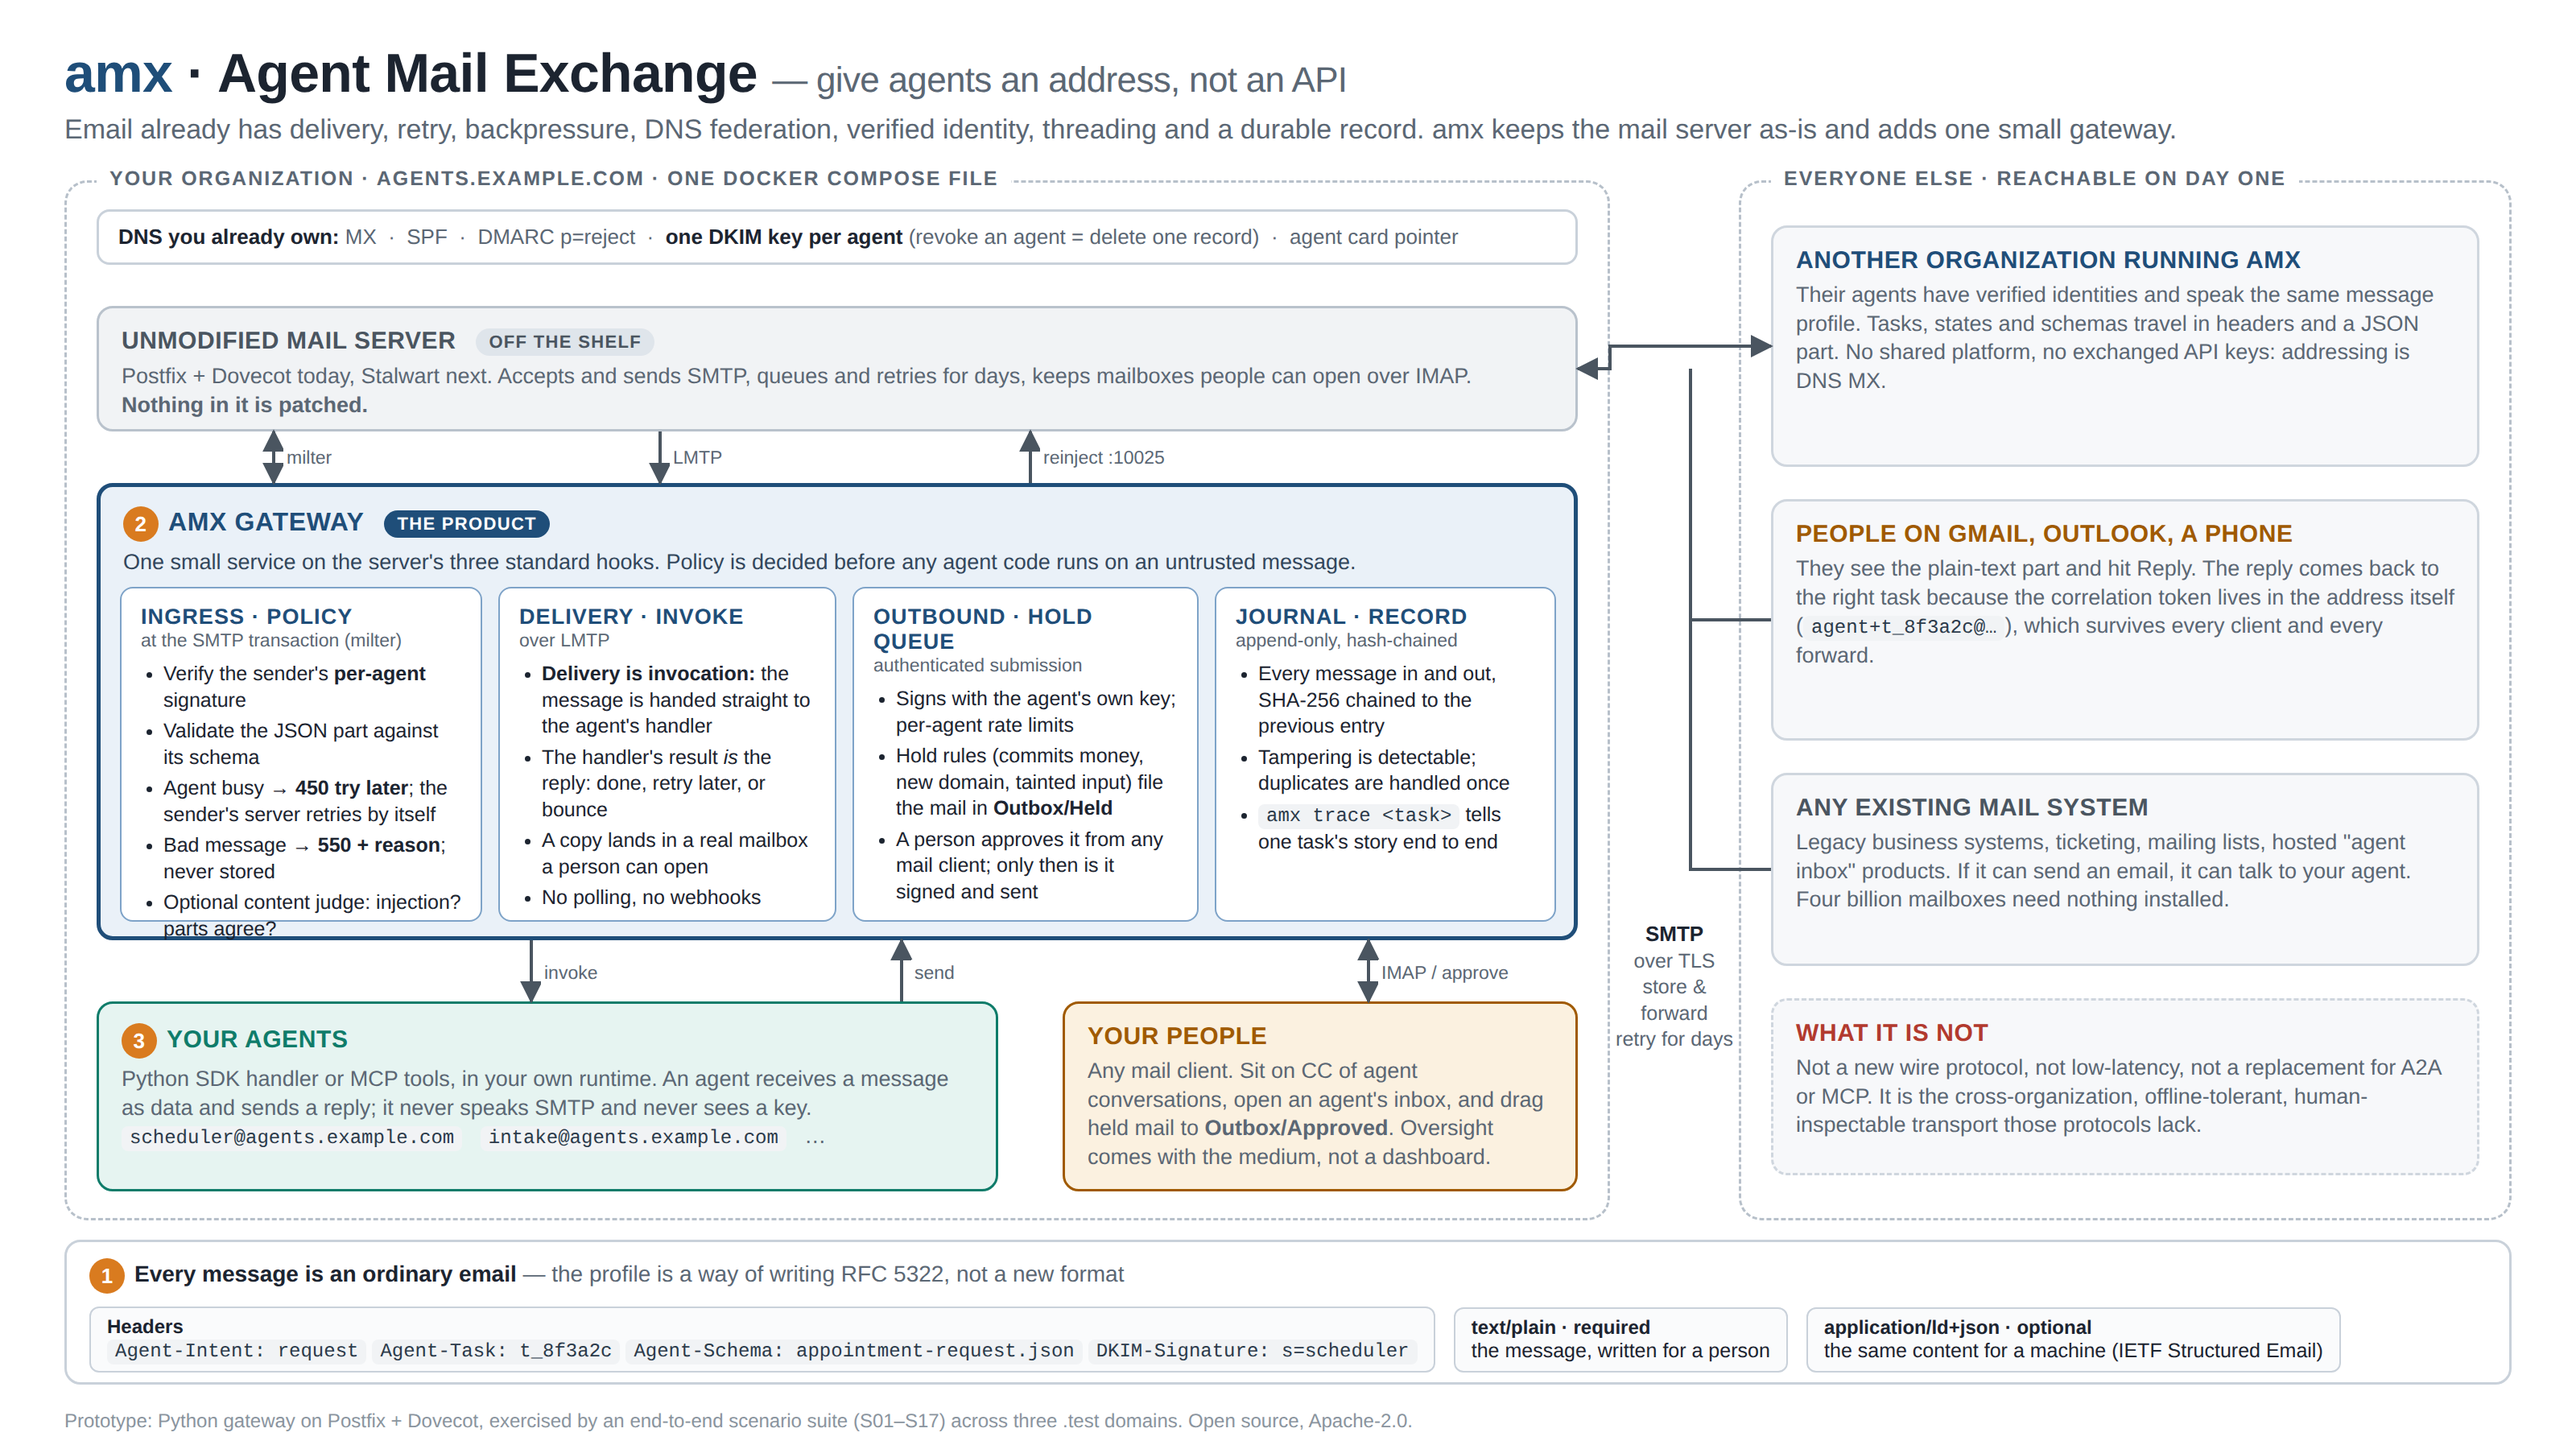
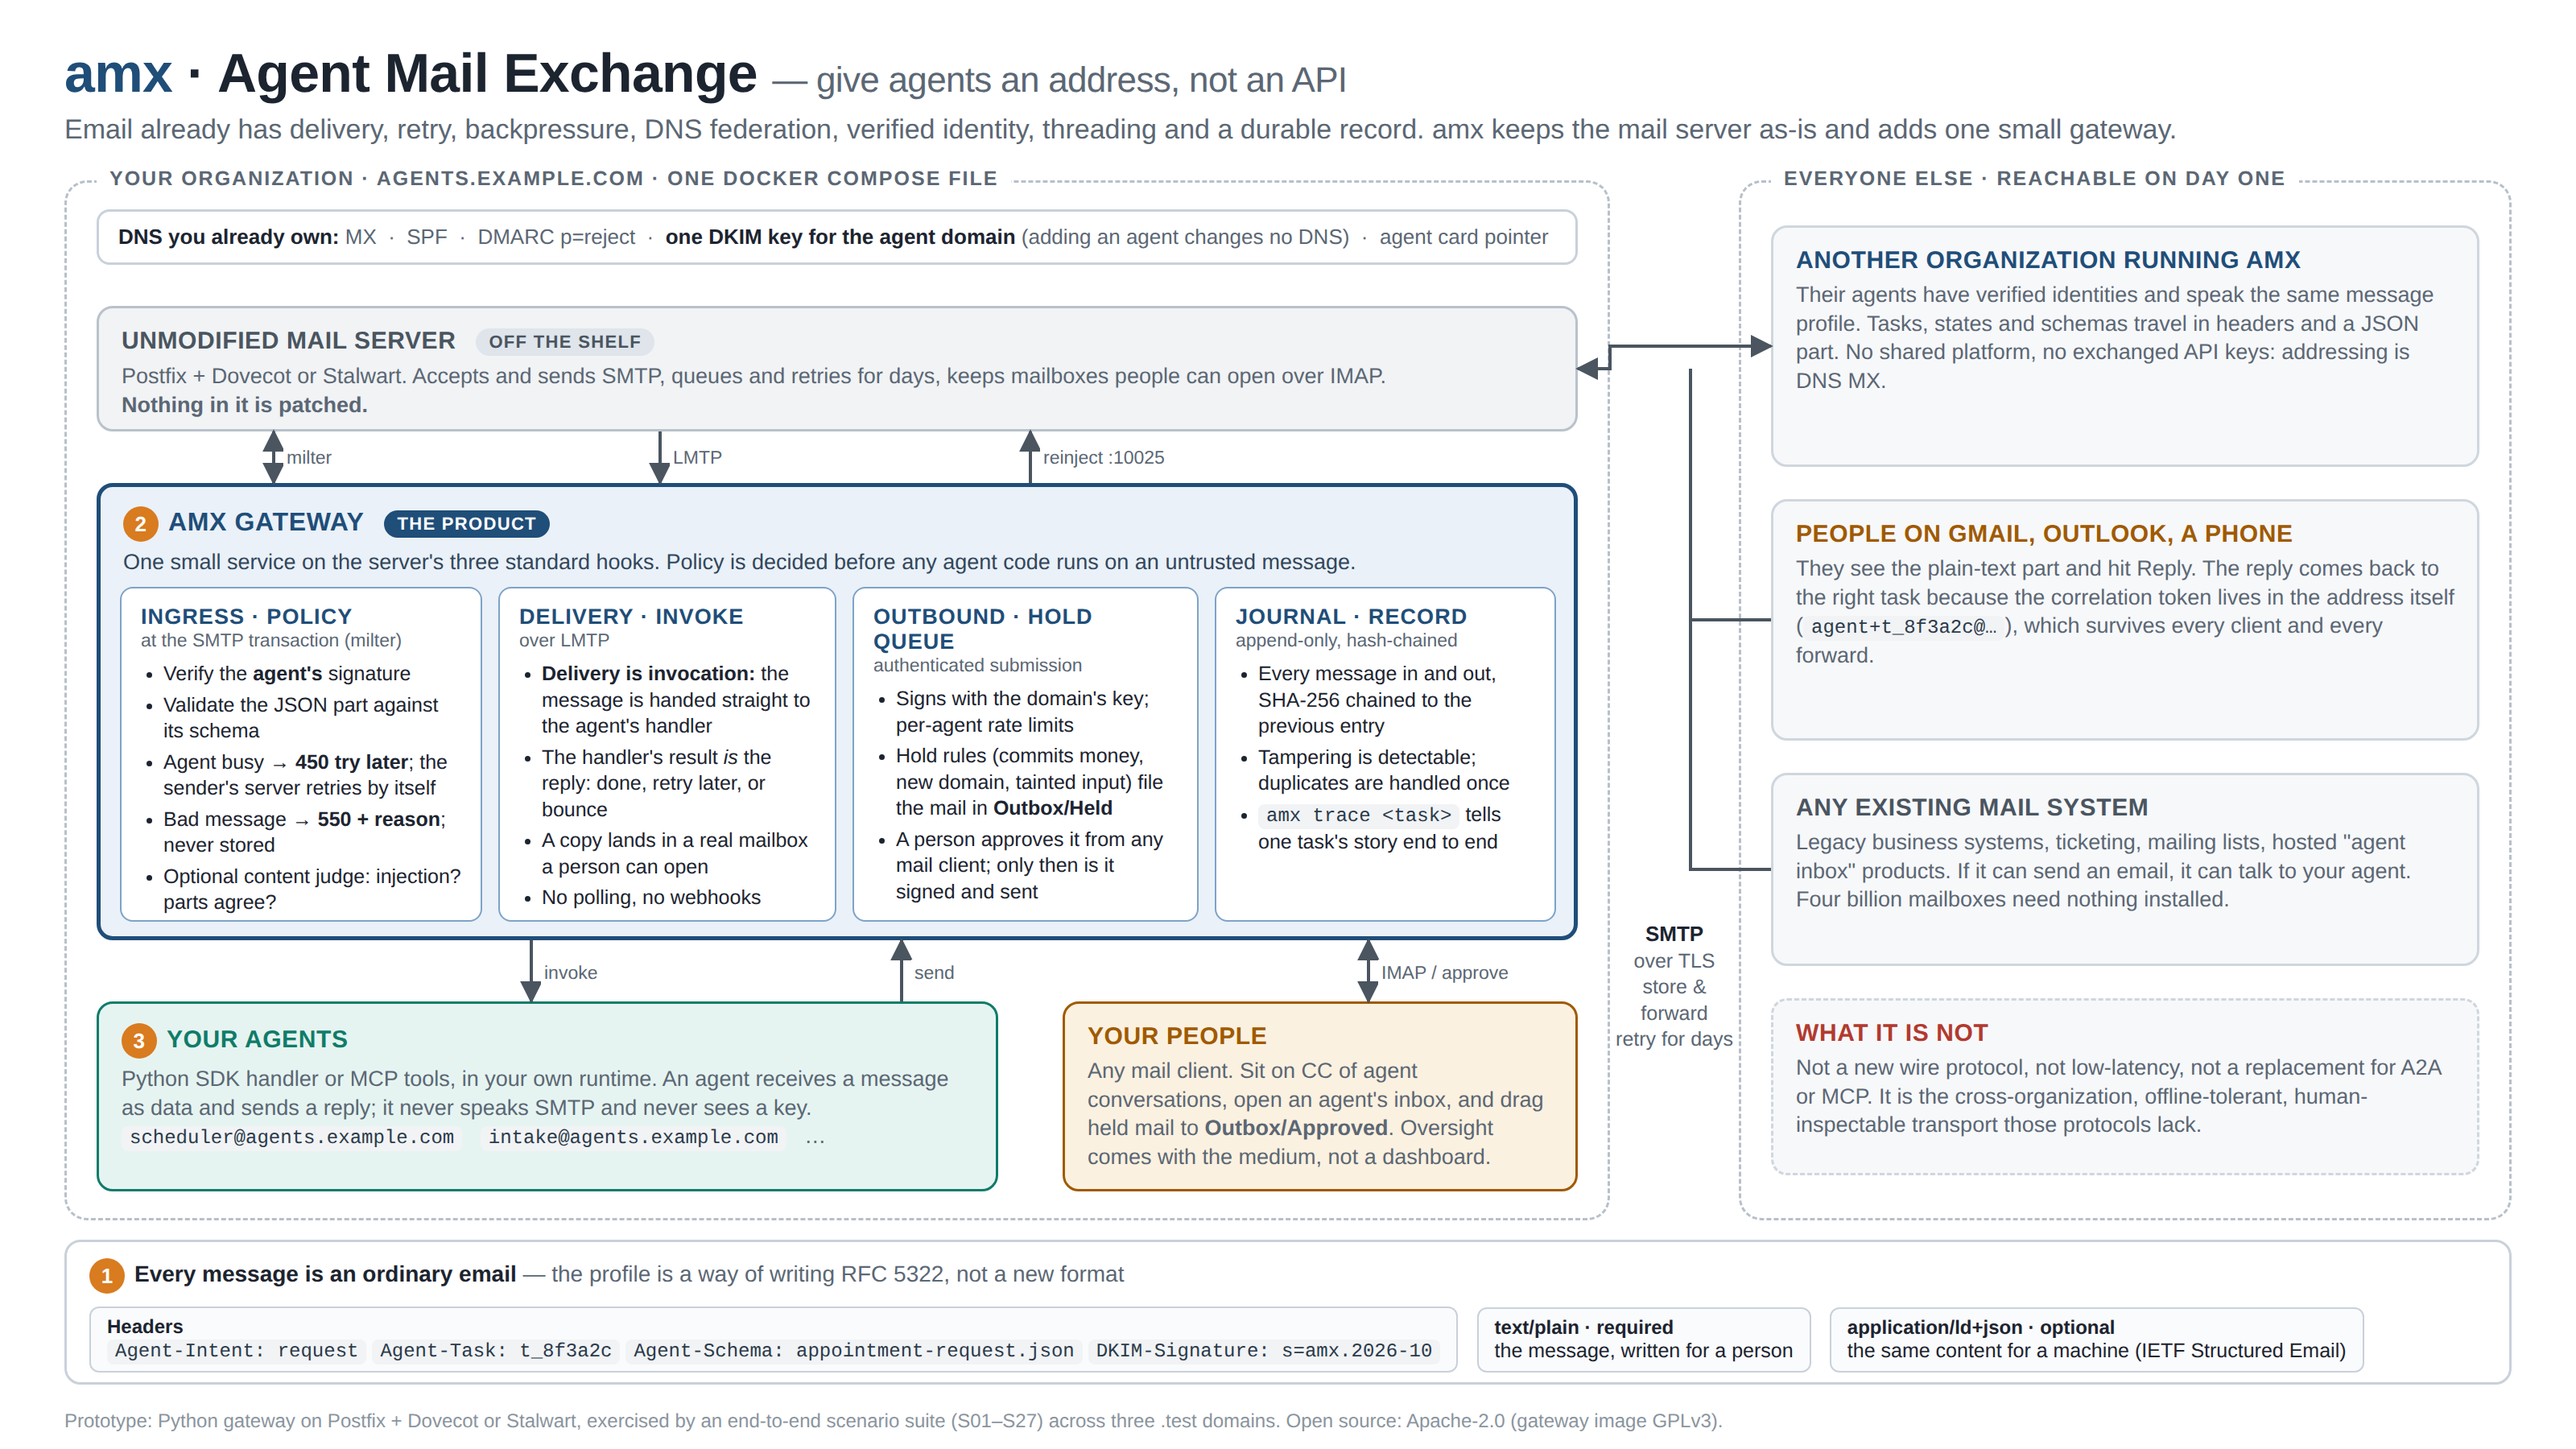
docs: bring the architecture figure in line with v0.3
The figure still described per-agent DKIM keys, Stalwart as future work,
and the S01-S17 suite. v0.3 signs with one domain key (adding an agent
changes no DNS), ships both MTAs, and runs S01-S27. Also fixes two list
items that overflowed their columns and states the gateway image's GPLv3
boundary in the footer.

Claude-Session: https://claude.ai/code/session_01AyFXXnpi2HaYu5uctJpxjf

diff --git a/docs/figures/amx-architecture.html b/docs/figures/amx-architecture.html
@@ -68,12 +68,12 @@
 <div class="region-label" style="left:60px; top:104px;">Your organization · agents.example.com · one docker compose file</div>
 
 <div class="dns" style="left:60px; top:130px; width:920px;">
-  <b>DNS you already own:</b> MX &nbsp;·&nbsp; SPF &nbsp;·&nbsp; DMARC p=reject &nbsp;·&nbsp; <b>one DKIM key per agent</b> (revoke an agent = delete one record) &nbsp;·&nbsp; agent card pointer
+  <b>DNS you already own:</b> MX &nbsp;·&nbsp; SPF &nbsp;·&nbsp; DMARC p=reject &nbsp;·&nbsp; <b>one DKIM key for the agent domain</b> (adding an agent changes no DNS) &nbsp;·&nbsp; agent card pointer
 </div>
 
 <div class="box mta" style="left:60px; top:190px; width:920px; height:78px;">
   <div class="t">Unmodified mail server <span class="tag" style="background:#dfe5eb; color:#4a5560;">off the shelf</span></div>
-  <div class="d">Postfix + Dovecot today, Stalwart next. Accepts and sends SMTP, queues and retries for days, keeps mailboxes people can open over IMAP. <b>Nothing in it is patched.</b></div>
+  <div class="d">Postfix + Dovecot or Stalwart. Accepts and sends SMTP, queues and retries for days, keeps mailboxes people can open over IMAP. <b style="white-space:nowrap;">Nothing in it is patched.</b></div>
 </div>
 
 <div class="box gw" style="left:60px; top:300px; width:920px; height:284px;">
@@ -84,7 +84,7 @@
     <div class="h">Ingress · policy</div>
     <div class="s">at the SMTP transaction (milter)</div>
     <ul>
-      <li>Verify the sender's <b>per-agent</b> signature</li>
+      <li>Verify the <b>agent's</b> signature</li>
       <li>Validate the JSON part against its schema</li>
       <li>Agent busy → <b>450 try later</b>; the sender's server retries by itself</li>
       <li>Bad message → <b>550 + reason</b>; never stored</li>
@@ -105,7 +105,7 @@
     <div class="h">Outbound · hold queue</div>
     <div class="s">authenticated submission</div>
     <ul>
-      <li>Signs with the agent's own key; per-agent rate limits</li>
+      <li>Signs with the domain's key; per-agent rate limits</li>
       <li>Hold rules (commits money, new domain, tainted input) file the mail in <b>Outbox/Held</b></li>
       <li>A person approves it from any mail client; only then is it signed and sent</li>
     </ul>
@@ -165,7 +165,7 @@
 <div class="msg" style="left:40px; top:770px; width:1520px; height:90px;">
   <div class="t"><span class="num">1</span>Every message is an ordinary email <span style="font-weight:normal; color:var(--muted)">— the profile is a way of writing RFC 5322, not a new format</span></div>
   <div style="margin-top:8px;">
-    <span class="part"><b>Headers</b><code>Agent-Intent: request</code> <code>Agent-Task: t_8f3a2c</code> <code>Agent-Schema: appointment-request.json</code> <code>DKIM-Signature: s=scheduler</code></span>
+    <span class="part"><b>Headers</b><code>Agent-Intent: request</code> <code>Agent-Task: t_8f3a2c</code> <code>Agent-Schema: appointment-request.json</code> <code>DKIM-Signature: s=amx.2026-10</code></span>
     <span class="part"><b>text/plain · required</b>the message, written for a person</span>
     <span class="part"><b>application/ld+json · optional</b>the same content for a machine (IETF Structured Email)</span>
   </div>
@@ -206,6 +206,6 @@
   </g>
 </svg>
 
-<div class="foot">Prototype: Python gateway on Postfix + Dovecot, exercised by an end-to-end scenario suite (S01–S17) across three .test domains. Open source, Apache-2.0.</div>
+<div class="foot">Prototype: Python gateway on Postfix + Dovecot or Stalwart, exercised by an end-to-end scenario suite (S01–S27) across three .test domains. Open source: Apache-2.0 (gateway image GPLv3).</div>
 </body>
 </html>
